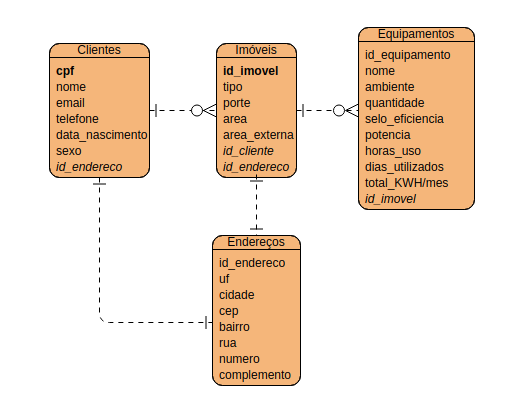
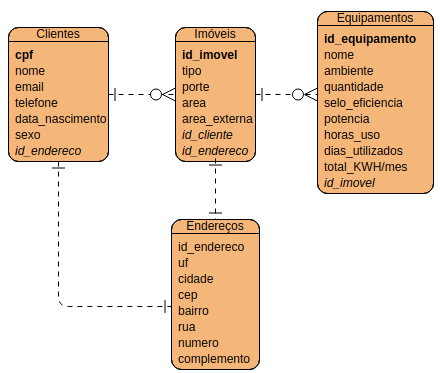
correções

diff --git a/requisitos.md b/requisitos.md
@@ -30,7 +30,7 @@ RF010 - Quantidade de clinete | Exibir a quantidade de clientes por mês | Admin
 
 ### Modelo Conceitual
 
-Abaixo apresentamos o modelo conceitual usando o **YUML**.
+Abaixo se encontra o modelo entidade relacionamento do projeto de serviço de assessoria energética.
 
  ![Modelo Entidade Relacionamento](mer.png)
 
